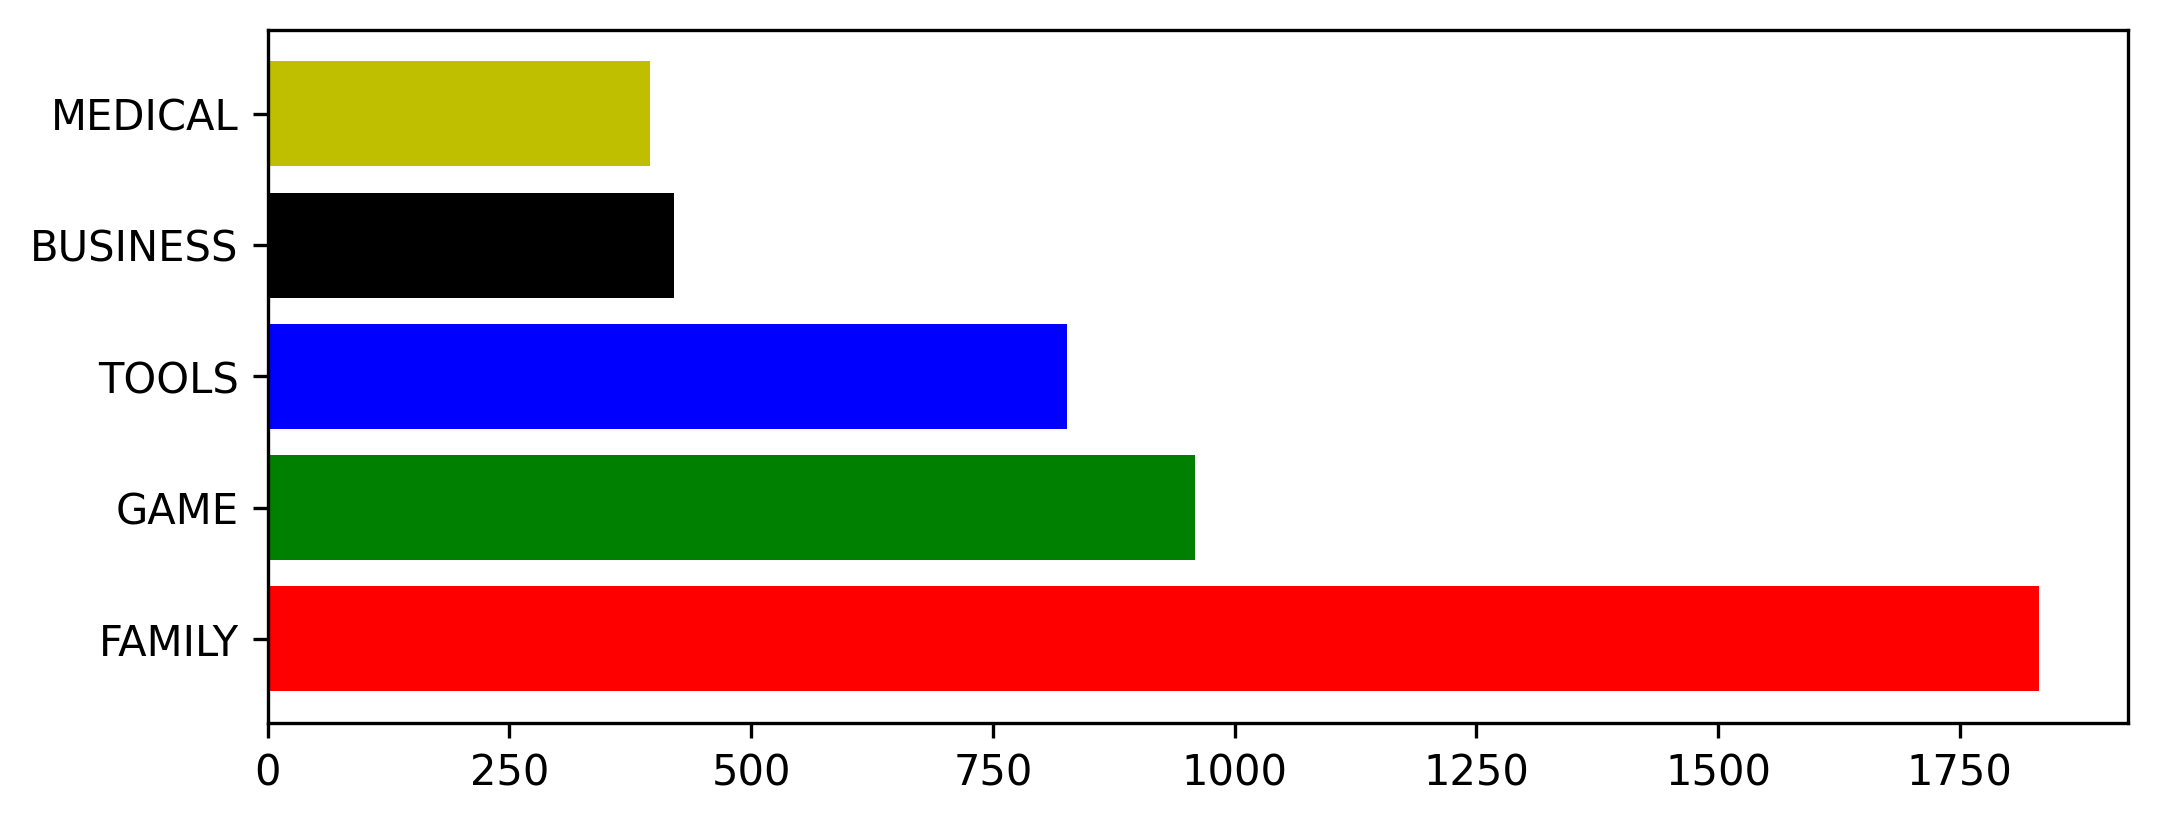
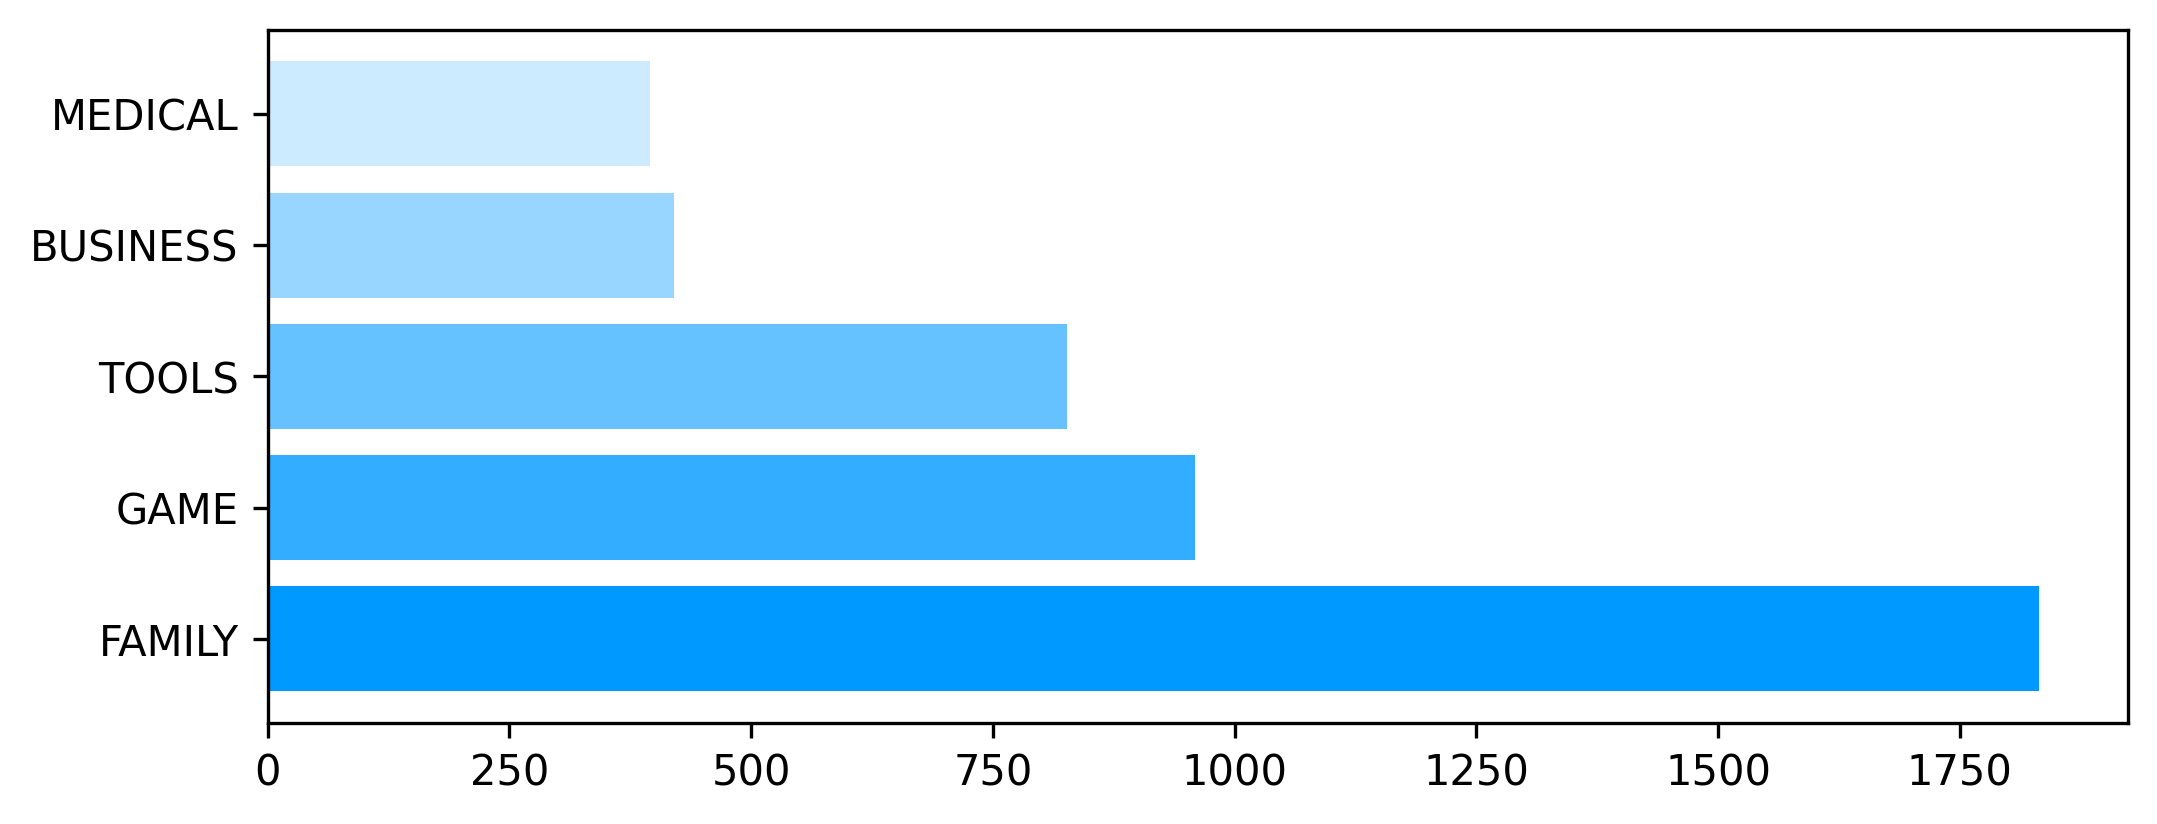
Add files via upload

Changed region(s): [[0.1242, 0.3944, 0.9629, 0.8495], [0.1242, 0.0607, 0.3106, 0.3641]]

diff --git a/app.py b/app.py
@@ -56,7 +56,7 @@ def index():
         }).rename({'Category':'Total'}, axis=1).sort_values(by = 'App', ascending=False).reset_index().head()
     X = cat_order['Category']
     Y = cat_order['App']
-    my_colors = 'rgbkymc'
+    my_colors = ['#0099ff','#33adff','#66c2ff', '#99d6ff', '#ccebff']
     # bagian ini digunakan untuk membuat kanvas/figure
     fig = plt.figure(figsize=(8,3),dpi=300)
     fig.add_subplot()
@@ -116,15 +116,14 @@ def index():
                     ).sort_values(by = 'Average Price', ascending = False).reset_index().head(5)
     X = top_price['Category']
     Y = top_price['Average Price']
-    my_colors2 = 'gbcmr'
+    my_colors2 = ['#00e6e6','#33ffff','#66ffff','#99ffff','#ccffff']
     # bagian ini digunakan untuk membuat kanvas/figure
-    fig = plt.figure(figsize=(5,5),dpi=100)
+    fig = plt.figure(figsize=(8,6),dpi=100)
     fig.add_subplot()
     # bagian ini digunakan untuk membuat bar plot
     plt.bar(X, Y, color=my_colors2)
     plt.xlabel('Category')
     plt.ylabel('Average Price')
-    plt.title('Top 5 Category with The Highest Average Price')
     # bagian ini digunakan untuk menyimpan plot dalam format image.png
     plt.savefig('top_price.png',bbox_inches="tight") 
 
